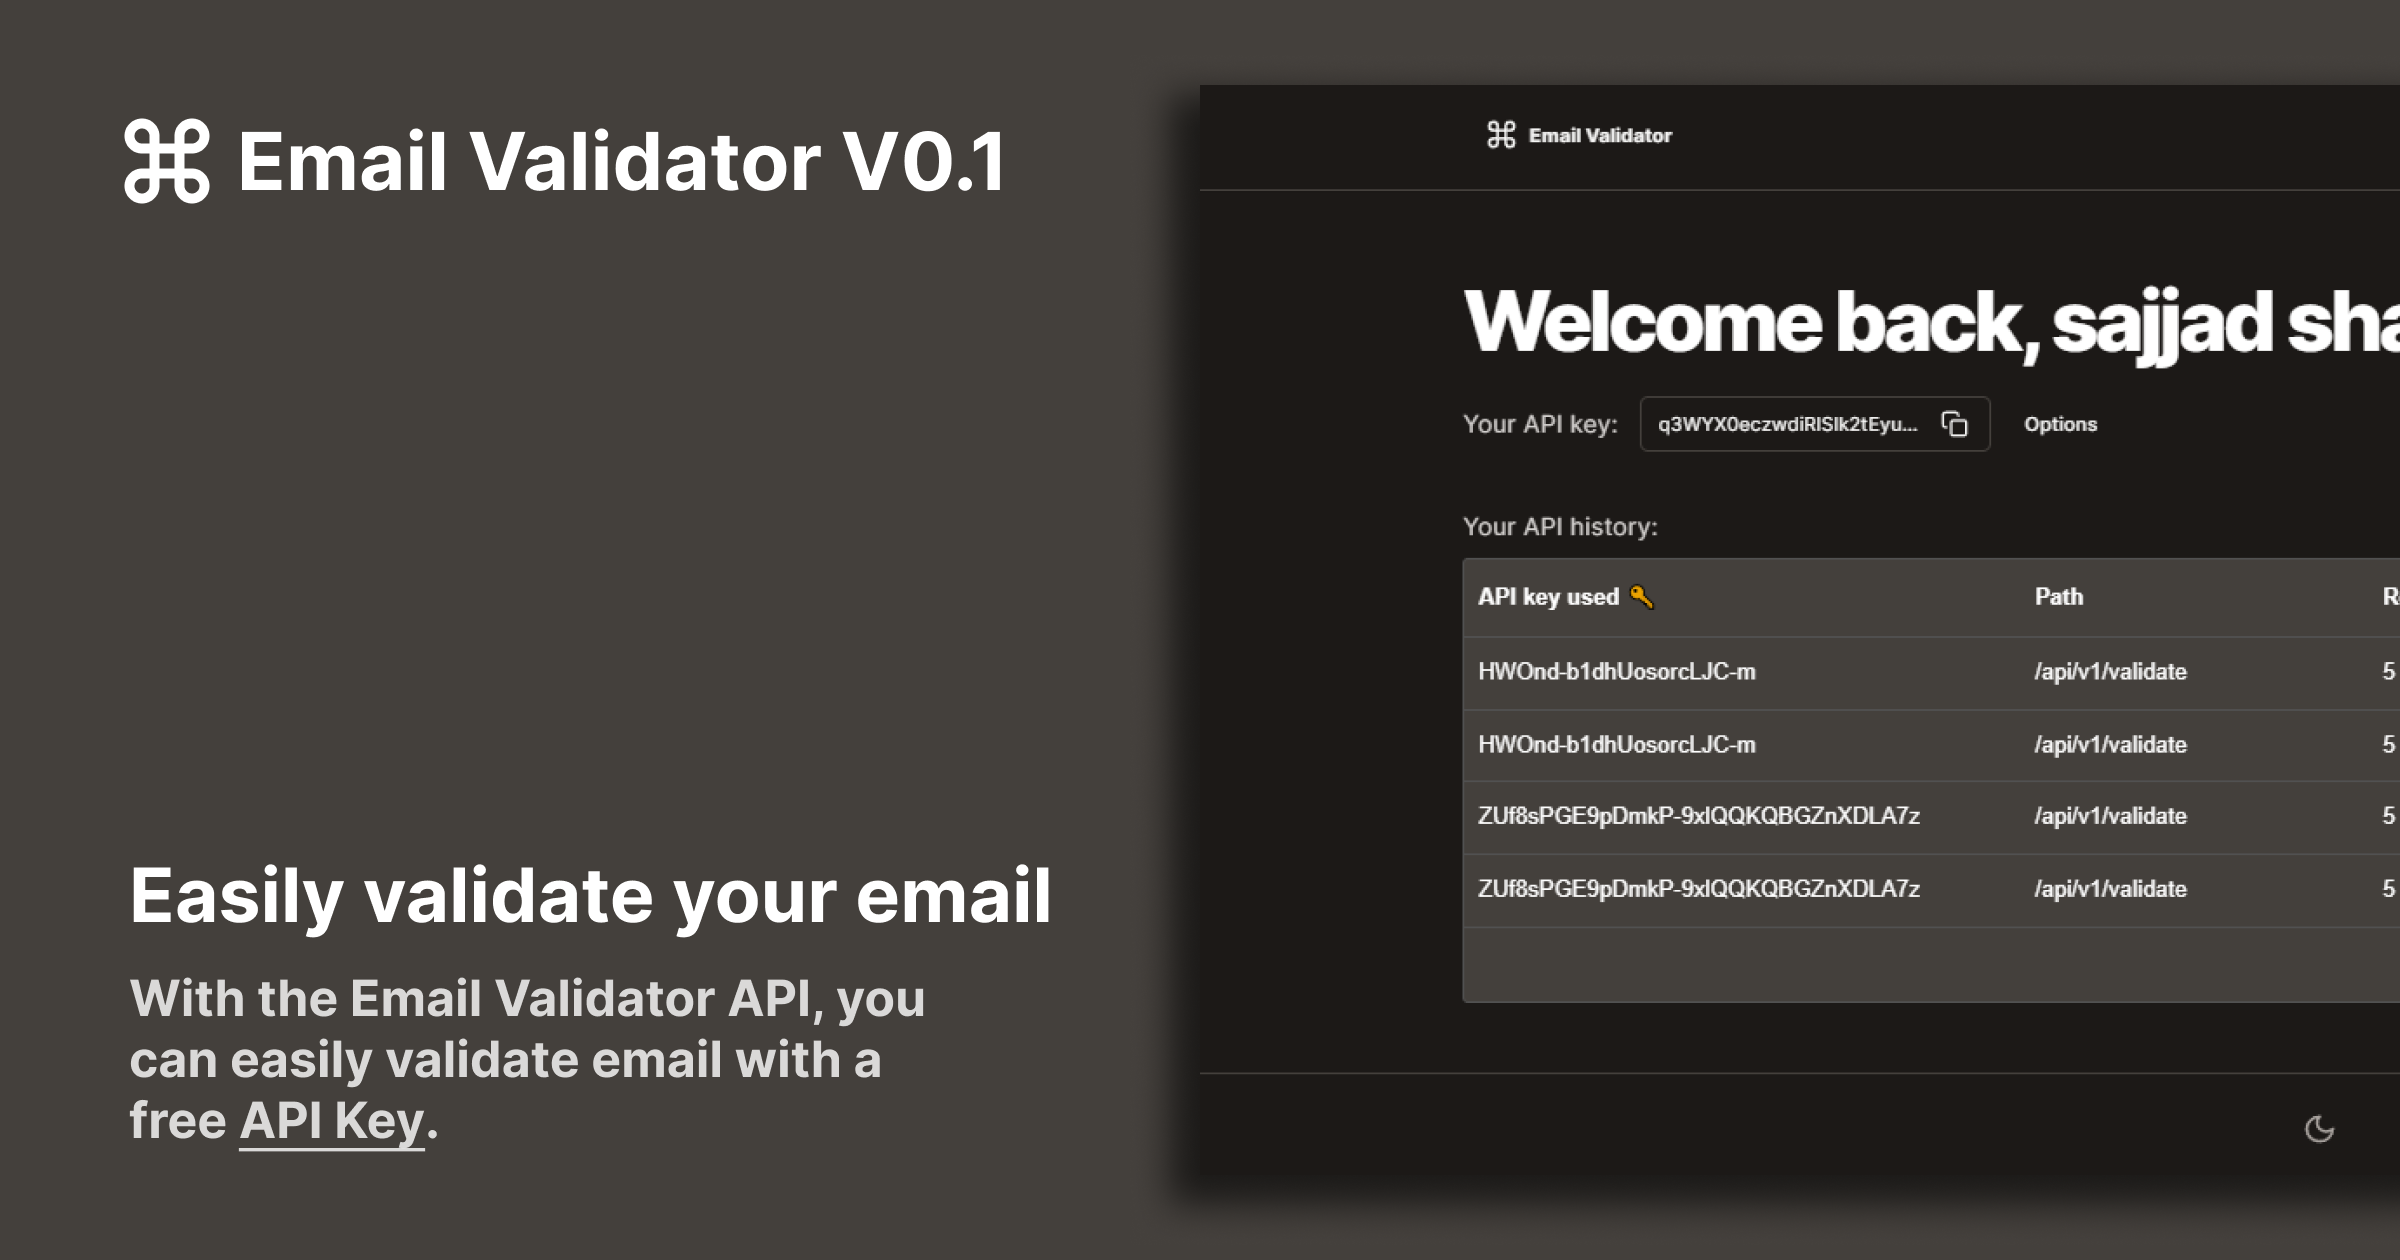
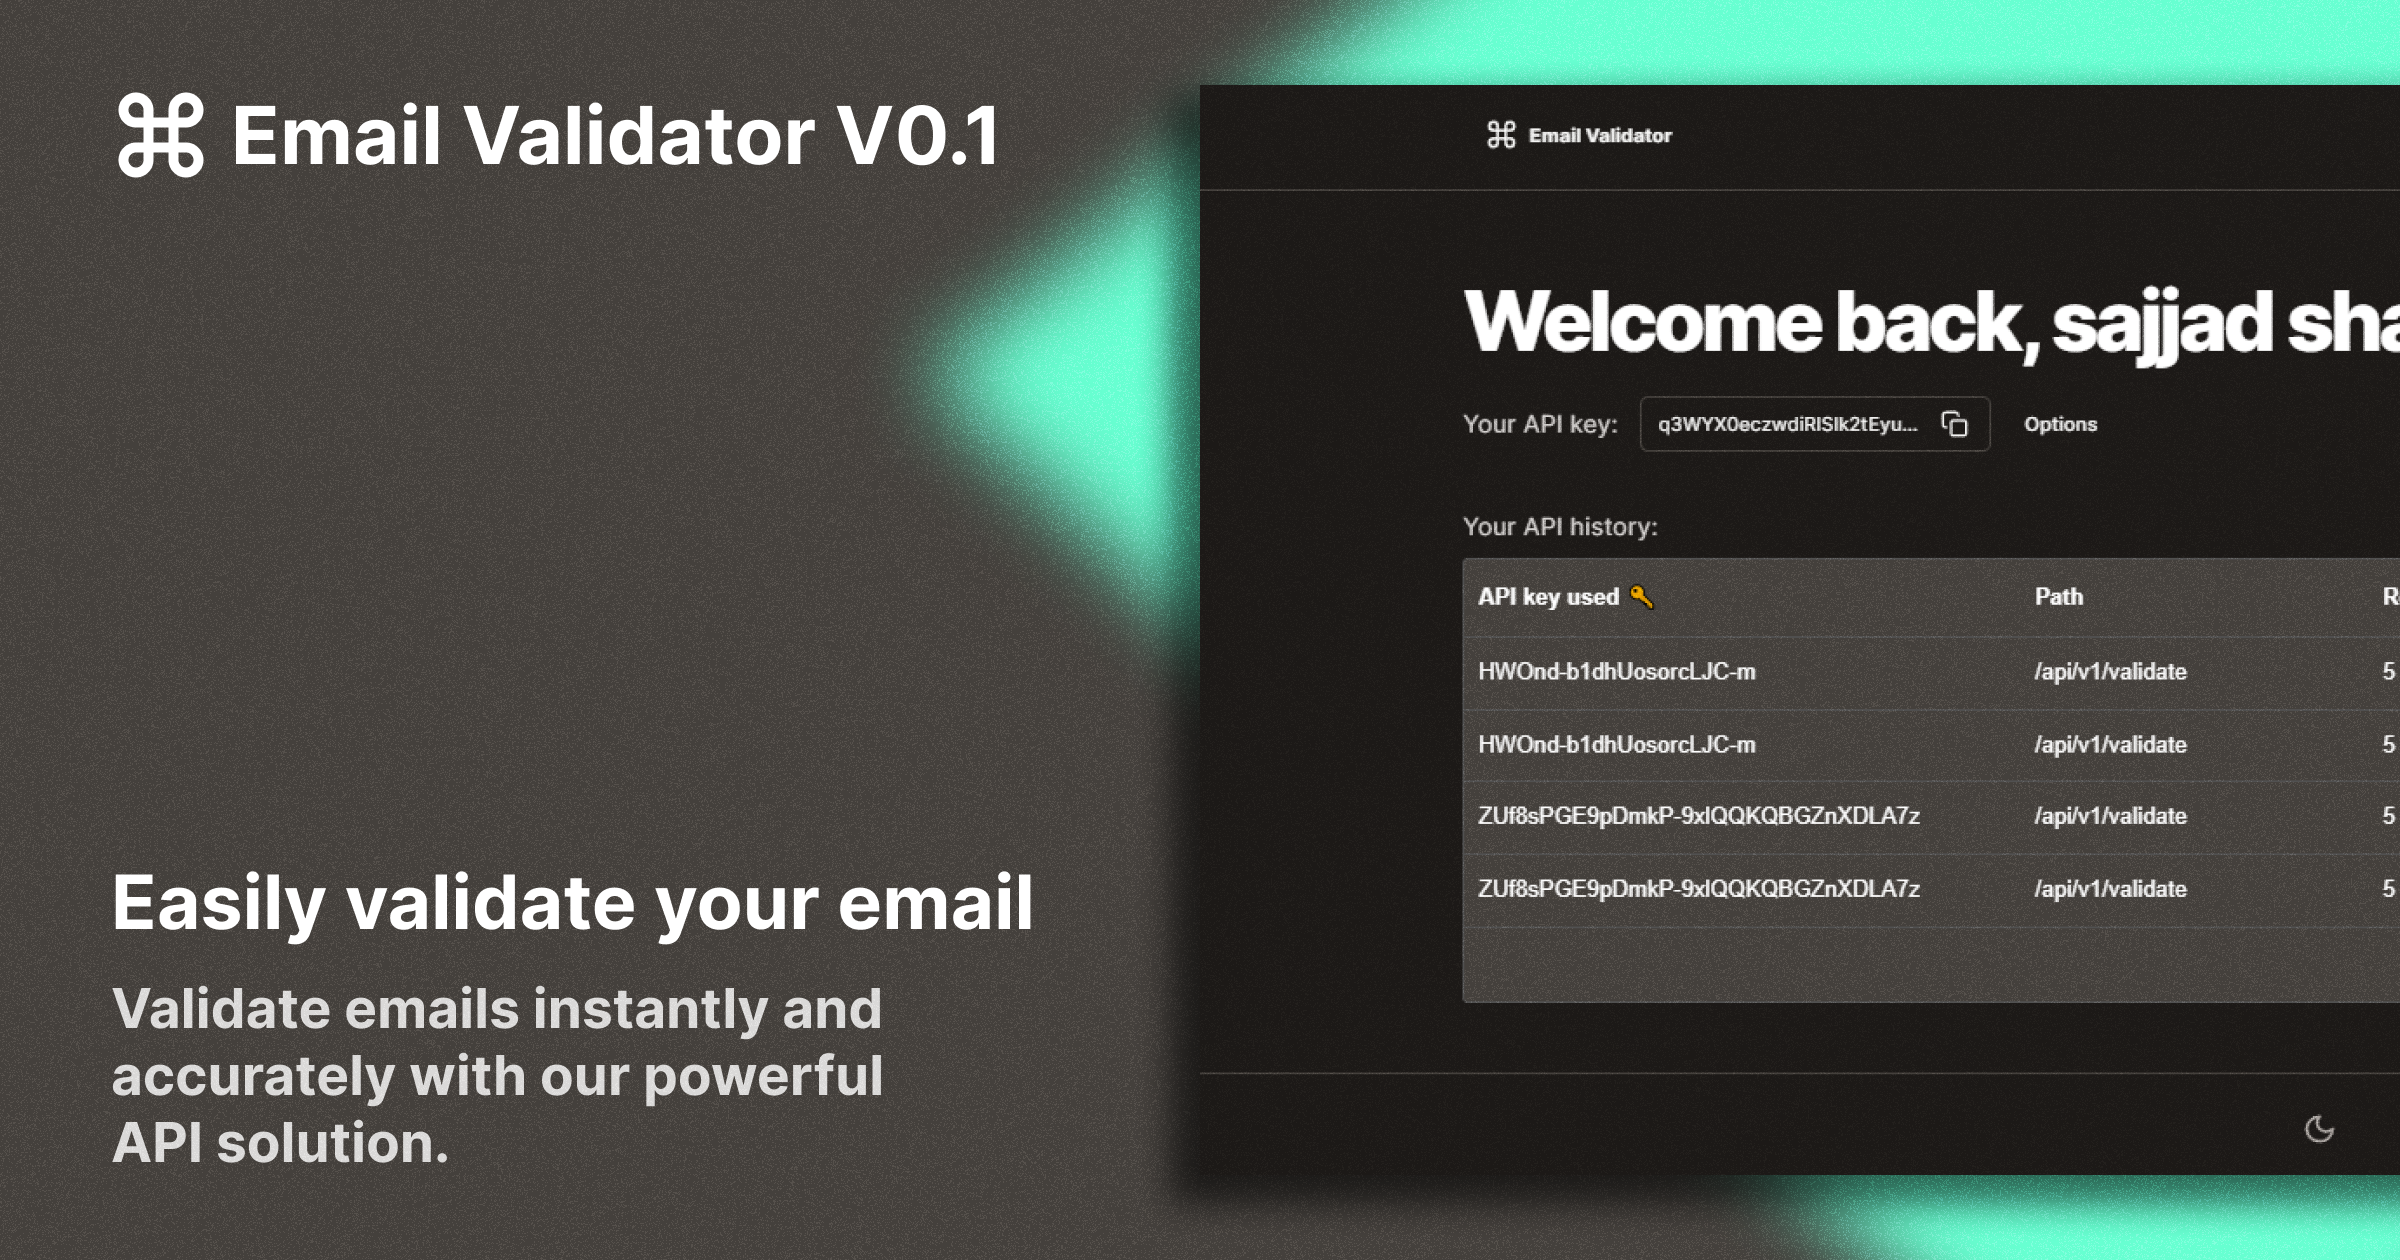
update: metadata and open image

diff --git a/src/app/page.tsx b/src/app/page.tsx
@@ -22,19 +22,18 @@ export default function Home() {
         <div className="h-full gap-4 flex flex-col justify-start lg:justify-center items-center lg:items-start">
           <PageHeader>
             <PageHeaderHeading className="three-d text-dark-silver dark:text-light-silver">
-              Easily validate your email.
+              Easy Email Validation
             </PageHeaderHeading>
             <PageHeaderDescription className="max-w-xl lg:text-left">
-              <Paragraph className="max-w-xl lg:text-left">
-                With the Email Validator API, you can easily validate email with
-                a free{" "}
-                <Link
-                  href="/login"
-                  className="underline underline-offset-2 text-dark-silver dark:text-light-silver"
-                >
-                  API Key
-                </Link>
-              </Paragraph>
+              Validate emails instantly and accurately with our powerful API
+              solution.{" "}
+              <Link
+                href="/login"
+                className="underline underline-offset-2 text-dark-silver dark:text-light-silver"
+              >
+                Get started
+              </Link>{" "}
+              for free today.
             </PageHeaderDescription>
           </PageHeader>
           <section className="pb-8 md:pb-10">
@@ -44,7 +43,7 @@ export default function Home() {
                   href="/documentation"
                   className={cn(buttonVariants({ size: "lg" }))}
                 >
-                  Get Started
+                  Docs
                 </Link>
                 <Link
                   target="_blank"

diff --git a/src/app/(dashboard)/dashboard/page.tsx b/src/app/(dashboard)/dashboard/page.tsx
@@ -1,27 +1,27 @@
-import ApiDashboard from '@/components/ApiDashboard'
-import RequestApiKey from '@/components/RequestApiKey'
-import { authOptions } from '@/lib/auth'
-import db from '@/lib/prisma'
-import { getServerSession } from 'next-auth'
-
-import type { Metadata } from 'next'
-import { notFound } from 'next/navigation'
+import ApiDashboard from "@/components/ApiDashboard";
+import RequestApiKey from "@/components/RequestApiKey";
+import { authOptions } from "@/lib/auth";
+import db from "@/lib/prisma";
+import { getServerSession } from "next-auth";
+import { siteConfig } from "@/config/site";
+import type { Metadata } from "next";
+import { notFound } from "next/navigation";
 
 export const metadata: Metadata = {
-  title: 'Email Validator API | Dashboard',
-  description: 'Free & open-source email Validator API',
-}
+  title: `${siteConfig.name} | Dashboard`,
+  description: siteConfig.description,
+};
 
 const page = async () => {
-  const user = await getServerSession(authOptions)
-  if (!user) return notFound()
+  const user = await getServerSession(authOptions);
+  if (!user) return notFound();
 
   const apiKey = await db.apiKey.findFirst({
     where: { userId: user.user.id, enabled: true },
-  })
+  });
 
   return (
-    <div className='max-w-7xl mx-auto mt-16'>
+    <div className="max-w-7xl mx-auto mt-16">
       {apiKey ? (
         // @ts-expect-error Server Component
         <ApiDashboard />
@@ -29,7 +29,7 @@ const page = async () => {
         <RequestApiKey />
       )}
     </div>
-  )
-}
+  );
+};
 
-export default page
+export default page;

diff --git a/src/components/PageHeader.tsx b/src/components/PageHeader.tsx
@@ -1,6 +1,6 @@
-import Balance from "react-wrap-balancer"
+import Balance from "react-wrap-balancer";
 
-import { cn } from "@/lib/utils"
+import { cn } from "@/lib/utils";
 
 function PageHeader({
   className,
@@ -14,7 +14,7 @@ function PageHeader({
       )}
       {...props}
     />
-  )
+  );
 }
 
 function PageHeaderHeading({
@@ -29,7 +29,7 @@ function PageHeaderHeading({
       )}
       {...props}
     />
-  )
+  );
 }
 
 function PageHeaderDescription({
@@ -39,12 +39,12 @@ function PageHeaderDescription({
   return (
     <Balance
       className={cn(
-        "max-w-[750px] text-lg text-muted-foreground sm:text-xl",
+        "max-w-[750px] text-lg text-stone-900 dark:text-white sm:text-xl",
         className
       )}
       {...props}
     />
-  )
+  );
 }
 
-export { PageHeader, PageHeaderHeading, PageHeaderDescription }
+export { PageHeader, PageHeaderHeading, PageHeaderDescription };

diff --git a/src/app/(docs)/documentation/page.tsx b/src/app/(docs)/documentation/page.tsx
@@ -3,10 +3,11 @@ import type { Metadata } from "next";
 import LargeHeading from "@/components/ui/LargeHeading";
 import Paragraph from "@/components/ui/Paragraph";
 import DocumentationTabs from "@/components/DocumentationTabs";
+import { siteConfig } from "@/config/site";
 
 export const metadata: Metadata = {
-  title: "Email Validator API | Documentation",
-  description: "Free and open-source email validator API",
+  title: `${siteConfig.name} | Documentation`,
+  description: siteConfig.description,
 };
 
 const page: FC = ({}) => {

diff --git a/src/app/(auth)/login/page.tsx b/src/app/(auth)/login/page.tsx
@@ -6,6 +6,13 @@ import UserAuthForm from "@/components/UserAuthForm";
 import { cn } from "@/lib/utils";
 import Link from "next/link";
 import { FC } from "react";
+import { siteConfig } from "@/config/site";
+import type { Metadata } from "next";
+
+export const metadata: Metadata = {
+  title: `${siteConfig.name} | Login`,
+  description: siteConfig.description,
+};
 
 const page: FC = () => {
   return (

diff --git a/src/config/site.ts b/src/config/site.ts
@@ -2,7 +2,8 @@ import { SiteConfig } from "@/types";
 
 export const siteConfig: SiteConfig = {
   name: "Email Validator",
-  description: "Free and open-source email validator API.",
+  description:
+    "Validate emails instantly and accurately with our powerful API solution.",
   url: "https://emailvalidatorv1.vercel.app/",
   ogImage: "https://emailvalidatorv1.vercel.app/og.png",
   links: {

diff --git a/src/app/layout.tsx b/src/app/layout.tsx
@@ -11,8 +11,8 @@ import { siteConfig } from "@/config/site";
 const inter = Inter({ subsets: ["latin"] });
 
 export const metadata: Metadata = {
-  title: "Email Validator API | Home",
-  description: "Free and open-source email validator API",
+  title: `${siteConfig.name} | Home`,
+  description: siteConfig.description,
   keywords: [
     "Next.js",
     "React",
